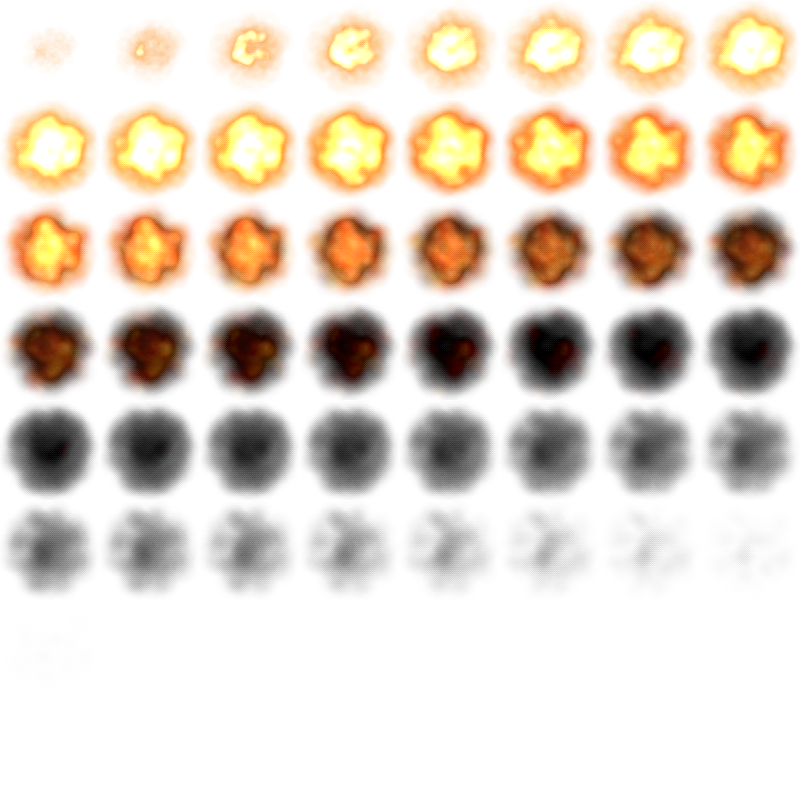
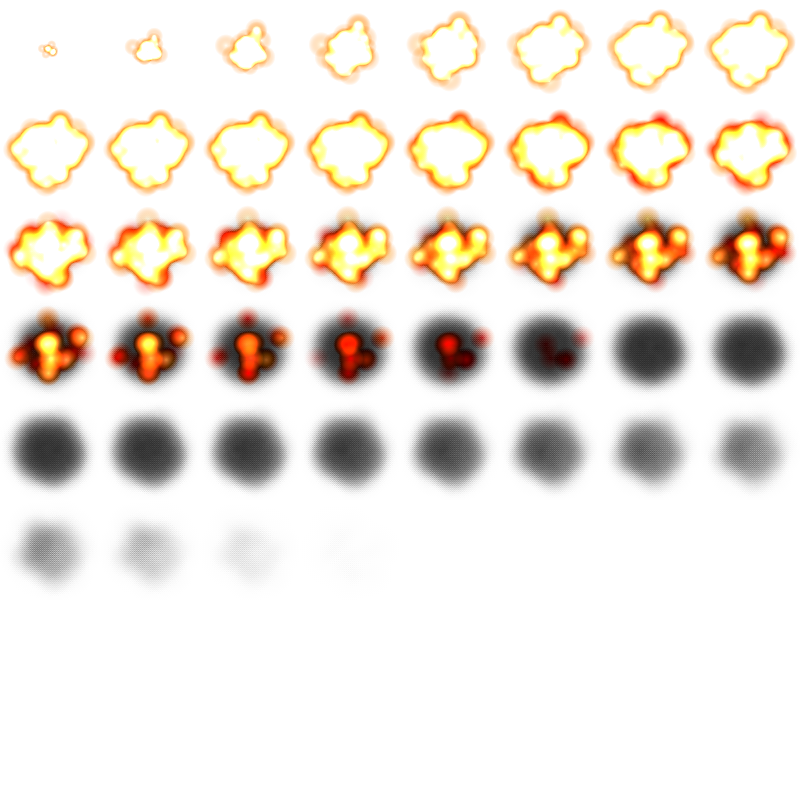
stage4

diff --git a/src/enemy/Danmaku.js b/src/enemy/Danmaku.js
@@ -239,10 +239,10 @@ gls2.Danmaku["cannon2-0"] = new bulletml.Root({
             $absoluteNway(4, "180-10+$loop.index*15", "180+10+$loop.index*15", $spd2),
             $absoluteNway(4, "270-10+$loop.index*15", "270+10+$loop.index*15", $spd2),
             $interval(20),
-            $absoluteNway(3,   "0-10+45+$loop.index*15",   "0+10+45+$loop.index*15", $spd3, BNS),
-            $absoluteNway(3,  "90-10+45+$loop.index*15",  "90+10+45+$loop.index*15", $spd3, BNS),
-            $absoluteNway(3, "180-10+45+$loop.index*15", "180+10+45+$loop.index*15", $spd3, BNS),
-            $absoluteNway(3, "270-10+45+$loop.index*15", "270+10+45+$loop.index*15", $spd3, BNS),
+            $absoluteNway(3,   "0-10+45+$loop.index*15",   "0+10+45+$loop.index*15", $spd3),
+            $absoluteNway(3,  "90-10+45+$loop.index*15",  "90+10+45+$loop.index*15", $spd3),
+            $absoluteNway(3, "180-10+45+$loop.index*15", "180+10+45+$loop.index*15", $spd3),
+            $absoluteNway(3, "270-10+45+$loop.index*15", "270+10+45+$loop.index*15", $spd3),
         ]),
     ]),
     "top1": $.action([
@@ -258,37 +258,10 @@ gls2.Danmaku["cannon2-0"] = new bulletml.Root({
             $interval(10),
         ]),
     ]),
-});
-
-/**
- * まこぴー2.
- */
-gls2.Danmaku["cannon2-1"] = new bulletml.Root({
-    "top0": $.action([
+    "top2": $.action([
         $.repeat(999, [
-            $interval(20),
-            $absoluteNway(6,   "0-10+$loop.index*15",   "0+10+$loop.index*15", $spd2),
-            $absoluteNway(6,  "90-10+$loop.index*15",  "90+10+$loop.index*15", $spd2),
-            $absoluteNway(6, "180-10+$loop.index*15", "180+10+$loop.index*15", $spd2),
-            $absoluteNway(6, "270-10+$loop.index*15", "270+10+$loop.index*15", $spd2),
-            $interval(20),
-            $absoluteNway(7,   "0-10+45+$loop.index*15",   "0+10+45+$loop.index*15", $spd3, BNS),
-            $absoluteNway(7,  "90-10+45+$loop.index*15",  "90+10+45+$loop.index*15", $spd3, BNS),
-            $absoluteNway(7, "180-10+45+$loop.index*15", "180+10+45+$loop.index*15", $spd3, BNS),
-            $absoluteNway(7, "270-10+45+$loop.index*15", "270+10+45+$loop.index*15", $spd3, BNS),
-        ]),
-    ]),
-    "top1": $.action([
-        $.repeat(999, [
-            $.fire($.direction("  0+$loop.index*5", "absolute"), $spd1, RI),
-            $.fire($.direction(" 90+$loop.index*5", "absolute"), $spd1, RI),
-            $.fire($.direction("180+$loop.index*5", "absolute"), $spd1, RI),
-            $.fire($.direction("270+$loop.index*5", "absolute"), $spd1, RI),
-            $.fire($.direction("  0-$loop.index*5", "absolute"), $spd1, RI),
-            $.fire($.direction(" 90-$loop.index*5", "absolute"), $spd1, RI),
-            $.fire($.direction("180-$loop.index*5", "absolute"), $spd1, RI),
-            $.fire($.direction("270-$loop.index*5", "absolute"), $spd1, RI),
-            $interval(5),
+            $interval(43),
+            $nway(30, 0, 360-360/30, $spd3, BNS),
         ]),
     ]),
 });

diff --git a/src/Effect.js b/src/Effect.js
@@ -149,8 +149,7 @@ gls2.Effect.genShockwaveL = function(x, y, scene) {
 
 gls2.Effect.explodeS = function(x, y, scene, vector) {
     gls2.playSound("explode");
-    var e = gls2.Effect["explosion"].random()
-        .clone()
+    var e = gls2.Effect["explosion"].random().clone()
         .addEventListener("animationend", function() {
             this.remove();
         })
@@ -175,8 +174,7 @@ gls2.Effect.explodeS = function(x, y, scene, vector) {
 
 gls2.Effect.explodeGS = function(x, y, scene) {
     gls2.playSound("explode");
-    var e = gls2.Effect["explosion"].random()
-        .clone()
+    var e = gls2.Effect["explosion"].random().clone()
         .addEventListener("animationend", function() {
             this.remove();
         })
@@ -191,8 +189,7 @@ gls2.Effect.explodeGS = function(x, y, scene) {
     e.isEffect = true;
     e.addChildTo(scene);
 
-    e = gls2.Effect["explosion"].random()
-        .clone()
+    e = gls2.Effect["explosion"].random().clone()
         .addEventListener("animationend", function() {
             this.remove();
         })
@@ -210,8 +207,7 @@ gls2.Effect.explodeGS = function(x, y, scene) {
     e.isEffect = true;
     e.addChildTo(scene);
 
-    e = gls2.Effect["explosion"].random()
-        .clone()
+    e = gls2.Effect["explosion"].random().clone()
         .addEventListener("animationend", function() {
             this.remove();
         })
@@ -236,8 +232,7 @@ gls2.Effect.explodeM = function(x, y, scene) {
     var count = 20;
     var offset = ~~(Math.random() * gls2.Noise.noise.length);
     for (var i = 0; i < count; i++) {
-        var e = gls2.Effect["explosion"].random()
-            .clone()
+        var e = gls2.Effect["explosion"].random().clone()
             .addEventListener("animationend", function() {
                 this.remove();
             })
@@ -249,6 +244,7 @@ gls2.Effect.explodeM = function(x, y, scene) {
             })
             .setScale(0.7)
             .setPosition(x, y)
+            .setRotation(Math.random() * 360)
             .gotoAndPlay();
         e.a = Math.PI*2 * Math.random();
         var idx = ~~(gls2.Noise.noise.length * i/count) + offset;
@@ -270,8 +266,7 @@ gls2.Effect.explodeL = function(x, y, scene) {
         var v = Math.pow(gls2.Noise.noise.at(idx), 2);
         for (var j = 0; j < 3; j++) {
             var ev = v * (j+1) * 4;
-            var e = gls2.effectSprite["explodeL"]
-                .clone()
+            var e = gls2.Effect["explosion"].random().clone()
                 .addEventListener("animationend", function() {
                     this.remove();
                 })
@@ -284,6 +279,7 @@ gls2.Effect.explodeL = function(x, y, scene) {
                 })
                 .setScale(0.3 * (3-j))
                 .setPosition(x, y)
+                .setRotation(Math.random() * 360)
                 .gotoAndPlay();
             e.rotation = Math.random() * Math.PI*2;
             e.isEffect = true;

diff --git a/src/stage/Stage4.js b/src/stage/Stage4.js
@@ -68,21 +68,25 @@ gls2.Stage4 = tm.createClass(
         this.seq.add(500, "heri2-left");
         this.seq.add(  1, function() {
             this.gameScene.ground.tweener.clear().to({
+                speed: 6,
+                direction: -Math.PI*0.5
+            }, 10000).to({
                 speed: 3,
-                direction: Math.PI*0.25
-            }, 2000);
+                direction: -Math.PI*1.5
+            }, 10000);
         });
-        for (var i = 0; i < 3; i++) {
-            this.seq.add( 15, "heri2-center");
-            this.seq.add( 15, "heri2-right");
-            this.seq.add( 15, "heri2-center");
-            this.seq.add( 15, "heri2-left");
+        for (var i = 0; i < 7; i++) {
+            this.seq.add( 20, "heri2-center");
+            this.seq.add( 20, "heri2-right");
+            this.seq.add( 20, "heri2-center");
+            this.seq.add( 20, "heri2-left");
             this.seq.add(  1, "tank5-center");
-            this.seq.add( 15, "heri2-center");
-            this.seq.add( 15, "heri2-right");
-            this.seq.add( 15, "heri2-center");
-            this.seq.add( 15, "heri2-left");
+            this.seq.add( 10, "heri1-4-center");
+            this.seq.add( 10, "heri1-4-right");
+            this.seq.add( 10, "heri1-4-center");
+            this.seq.add( 10, "heri1-4-left");
             this.seq.add(  1, "tank5-left");
+            this.seq.add( 90, "tank25-top");
         }
 
         // 25%

diff --git a/src/stage/Stage.js b/src/stage/Stage.js
@@ -125,7 +125,7 @@ gls2.Stage = tm.createClass(
  * @static
  */
 gls2.Stage.create = function(gameScene, stageNumber) {
-    // return gls2.Stage4(gameScene); // TODO あとで消す
+    return gls2.Stage4(gameScene); // TODO あとで消す
 
     switch (stageNumber) {
         case 0:  return gls2.Stage1(gameScene);

diff --git a/src/main.js b/src/main.js
@@ -8,7 +8,7 @@
 /**
  * @define {boolean}
  */
-var STATS = true;
+var STATS = false;
 
 /**
  * @define {boolean}
